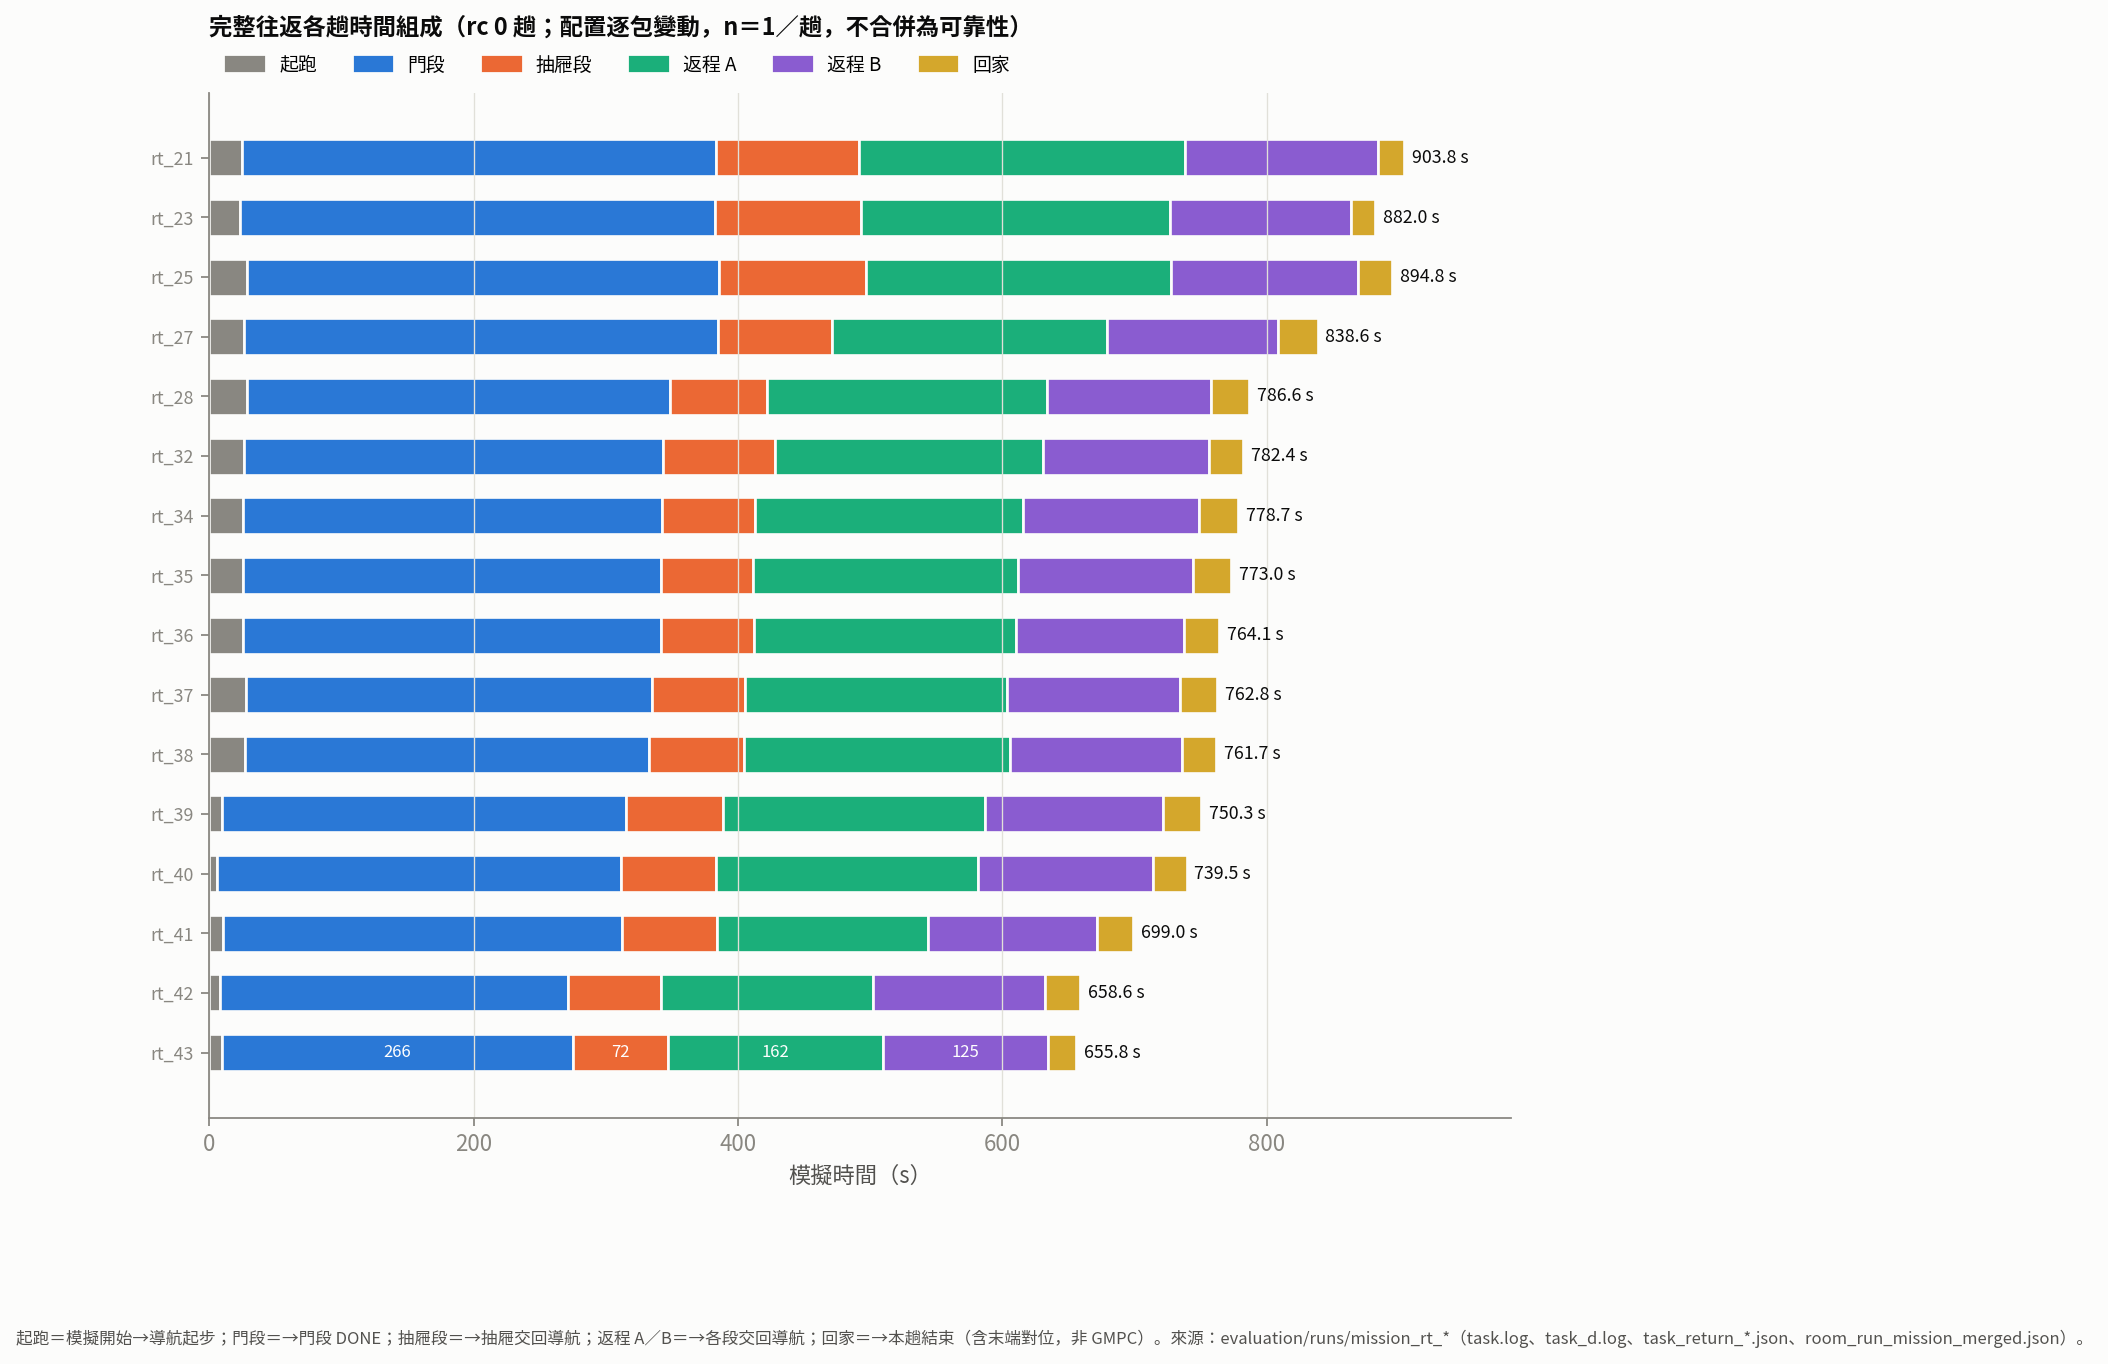
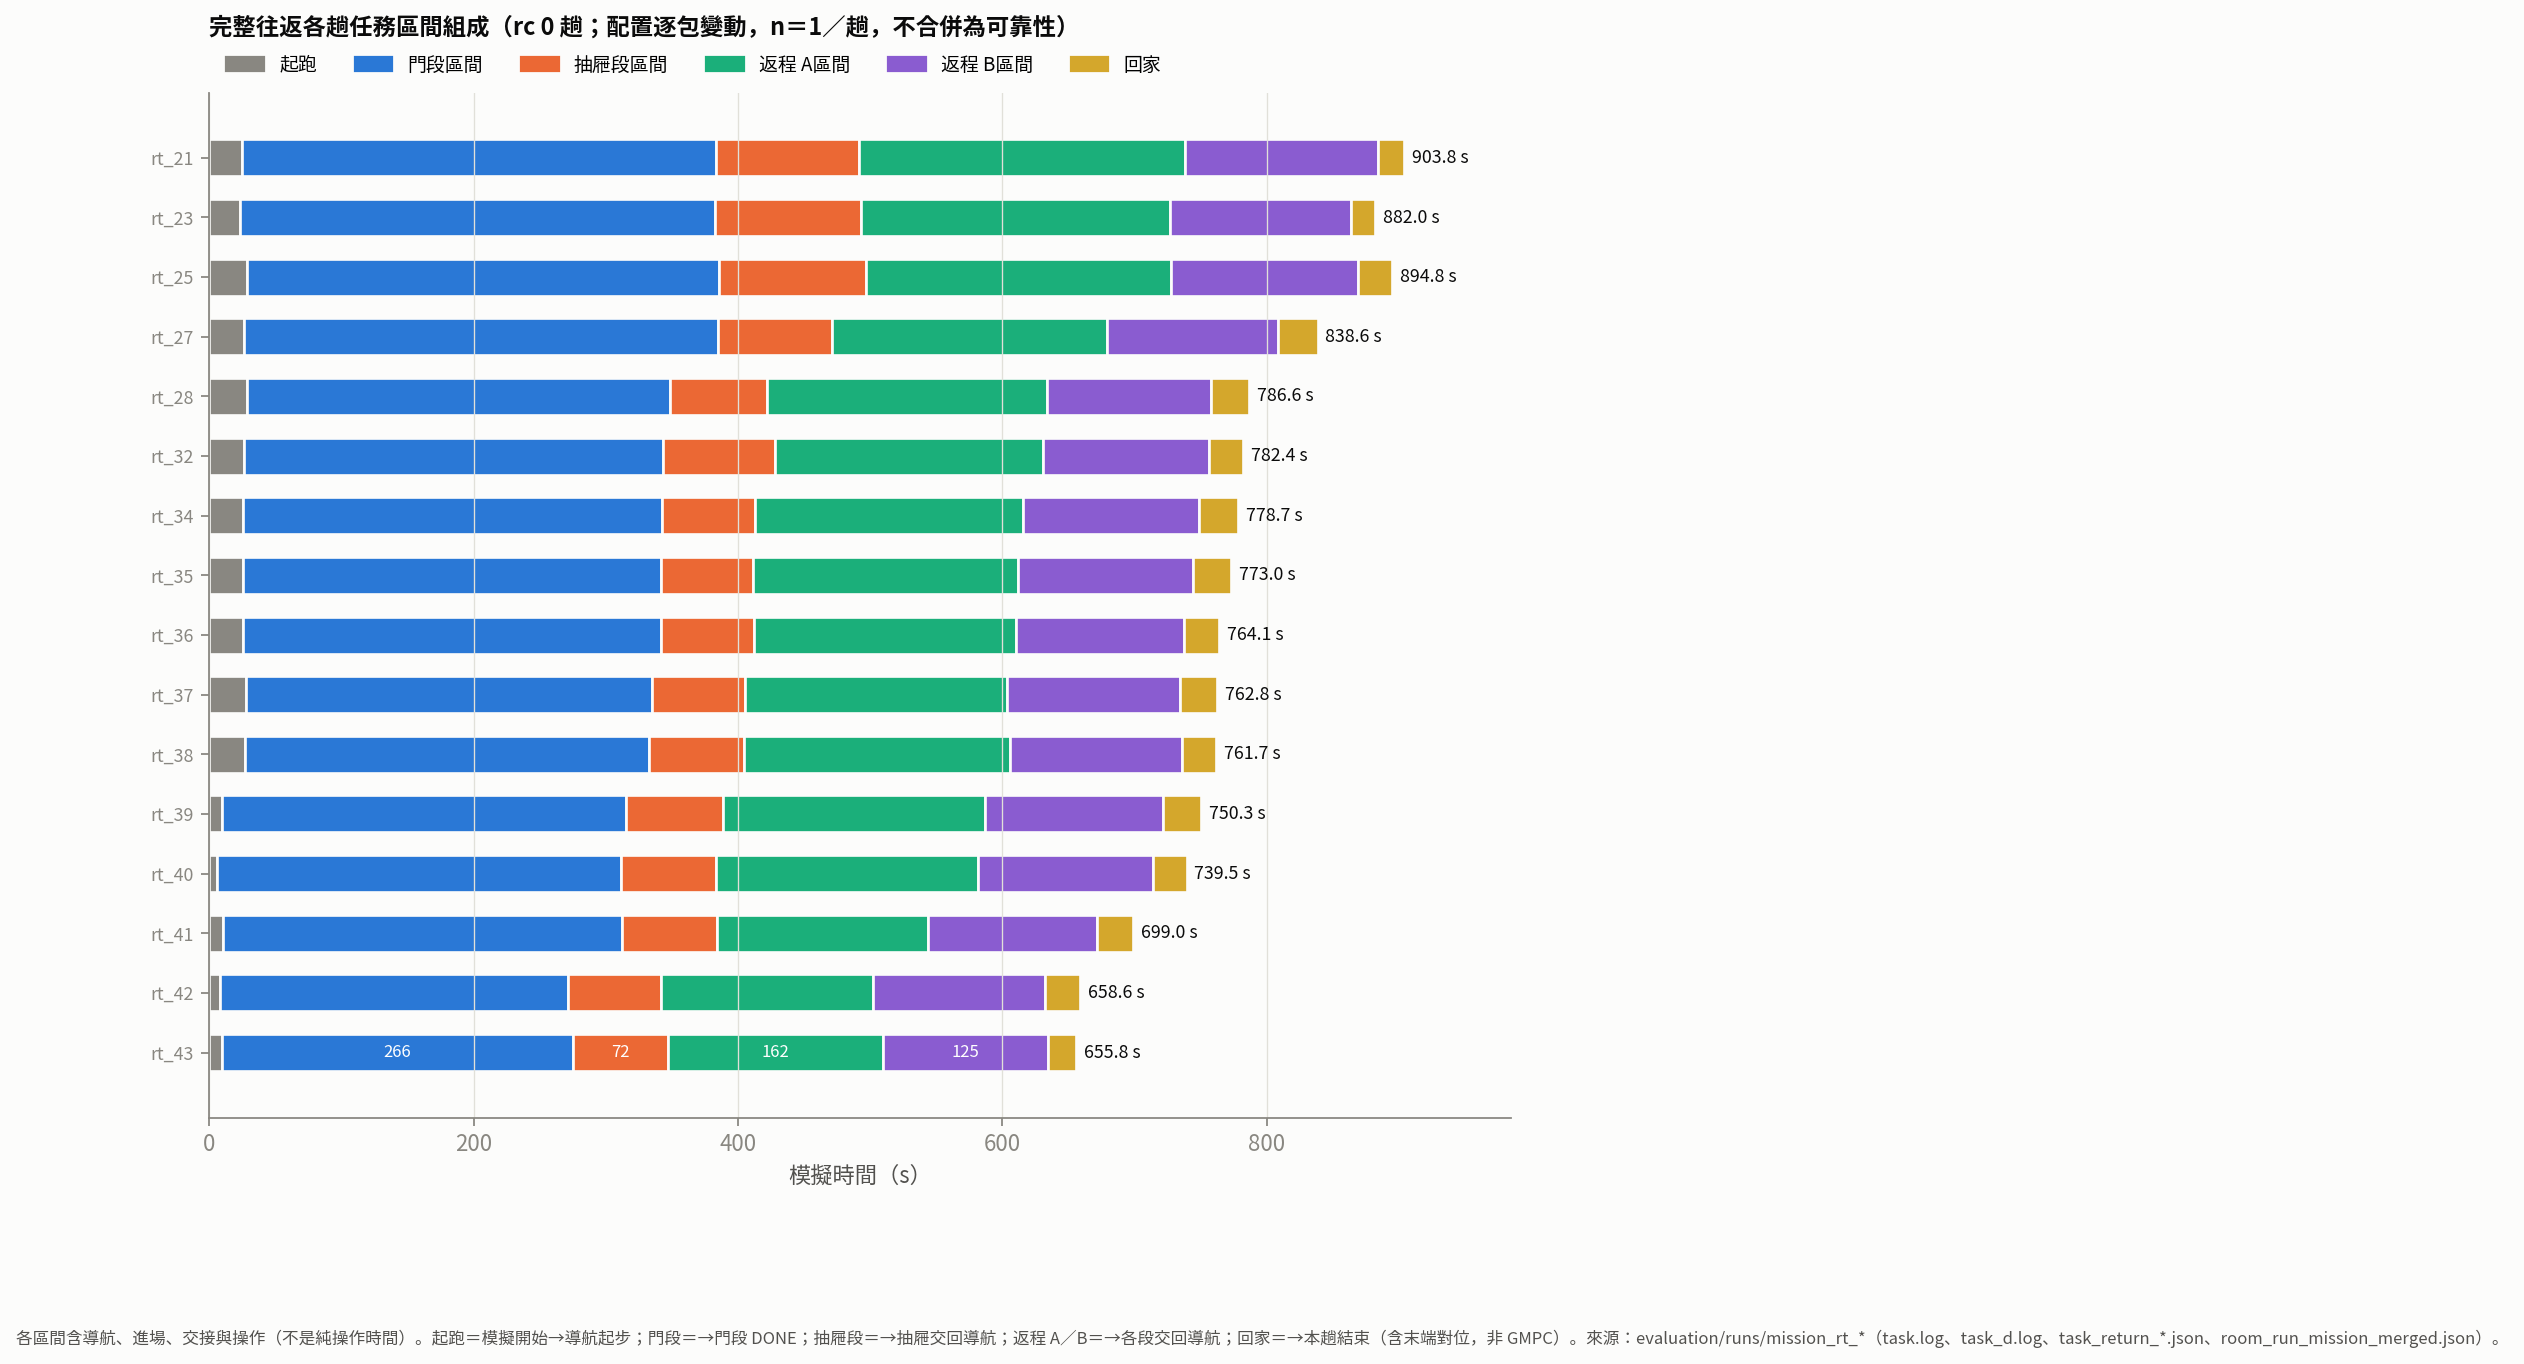
第七次素材第十三部分依 Codex 修正：副本可直接重現、抽屜中止描述、任務區間／局部改善口徑、40 s 改理想粗估、列 rt_43 版本位置

diff --git a/evaluation/build_mission_rt_summary.py b/evaluation/build_mission_rt_summary.py
@@ -6,7 +6,7 @@
 輸出：
   第七次進度報告素材/資料/mission_rt_summary.json   各趟結束碼、第一阻點（失敗趟）、成功趟的分段時刻與末態
   第七次進度報告素材/圖表/34_完整往返_各趟時間組成.png
-  第七次進度報告素材/圖表/35_完整往返_各包局部縮時.png
+  第七次進度報告素材/圖表/35_完整往返_各包局部縮時.png（局部改善／時長對照）
 """
 from __future__ import annotations
 
@@ -23,8 +23,20 @@ from matplotlib.patches import Patch                               # noqa: E402
 import numpy as np                                                 # noqa: E402
 
 HERE = os.path.dirname(os.path.abspath(__file__))
-WS = os.path.abspath(os.path.join(HERE, '..'))
-RUNS = os.path.join(HERE, 'runs')
+
+
+def _find_ws(d):
+    """往上找含 evaluation/runs 的工作區根（本檔在 evaluation/ 或素材「產生程式/」副本皆可直接執行）。"""
+    while True:
+        if os.path.isdir(os.path.join(d, 'evaluation', 'runs')):
+            return d
+        if os.path.dirname(d) == d:
+            raise SystemExit('找不到含 evaluation/runs 的工作區根')
+        d = os.path.dirname(d)
+
+
+WS = _find_ws(HERE)
+RUNS = os.path.join(WS, 'evaluation', 'runs')
 MAT = os.path.join(WS, '第七次進度報告素材')
 SURF, INK, INK2, MUTED, GRID = '#fcfcfb', '#0b0b0b', '#52514e', '#898781', '#e1e0d9'
 CAT = ['#898781', '#2a78d6', '#eb6834', '#1baf7a', '#8a5cd0', '#d4a72c']   # 起跑（中性灰）＋五段，固定順序
@@ -187,7 +199,7 @@ def run_summary(R):
 def fig34(S):
     ok = [s for s in S if s.get('rc') == 0 and s.get('segments')]
     fig, ax = plt.subplots(figsize=(10.5, 0.42 * len(ok) + 1.6))
-    names = [n for n, _, _ in ok[0]['segments']]
+    names = [n if n in ('起跑', '回家') else n + '區間' for n, _, _ in ok[0]['segments']]
     for i, s in enumerate(ok):
         y = len(ok) - 1 - i
         for j, (n, a, c) in enumerate(s['segments']):
@@ -204,8 +216,8 @@ def fig34(S):
     ax.grid(axis='y', visible=False)
     ax.legend(handles=[Patch(color=CAT[j], label=n) for j, n in enumerate(names)], ncol=6, frameon=False, loc='lower left',
               bbox_to_anchor=(0.0, 1.0), fontsize=8.5)
-    ax.set_title('完整往返各趟時間組成（rc 0 趟；配置逐包變動，n＝1／趟，不合併為可靠性）', loc='left', fontsize=10.5, pad=26)
-    fig.text(0.01, -0.06, '起跑＝模擬開始→導航起步；門段＝→門段 DONE；抽屜段＝→抽屜交回導航；返程 A／B＝→各段交回導航；回家＝→本趟結束（含末端對位，非 GMPC）。'
+    ax.set_title('完整往返各趟任務區間組成（rc 0 趟；配置逐包變動，n＝1／趟，不合併為可靠性）', loc='left', fontsize=10.5, pad=26)
+    fig.text(0.01, -0.06, '各區間含導航、進場、交接與操作（不是純操作時間）。起跑＝模擬開始→導航起步；門段＝→門段 DONE；抽屜段＝→抽屜交回導航；返程 A／B＝→各段交回導航；回家＝→本趟結束（含末端對位，非 GMPC）。'
              '來源：evaluation/runs/mission_rt_*（task.log、task_d.log、task_return_*.json、room_run_mission_merged.json）。', fontsize=7.5, color=INK2, wrap=True)
     return fig
 
@@ -244,7 +256,7 @@ def fig35(S):
     ax.scatter([], [], s=40, color='#898781', label='改動前一趟')
     ax.scatter([], [], s=40, color='#2a78d6', label='改動後一趟')
     ax.legend(frameon=False, loc='lower right', fontsize=8.5)
-    ax.set_title('各包局部縮時（相鄰兩趟實測，各 n＝1；局部量不等於整趟差）', loc='left', fontsize=10.5)
+    ax.set_title('各包局部改善／時長對照（相鄰兩趟實測，各 n＝1；局部量不等於整趟差；R1 列為反向時間，非提速）', loc='left', fontsize=10.5)
     return fig
 
 

diff --git a/第七次進度報告素材/產生程式/build_mission_rt_summary.py b/第七次進度報告素材/產生程式/build_mission_rt_summary.py
@@ -6,7 +6,7 @@
 輸出：
   第七次進度報告素材/資料/mission_rt_summary.json   各趟結束碼、第一阻點（失敗趟）、成功趟的分段時刻與末態
   第七次進度報告素材/圖表/34_完整往返_各趟時間組成.png
-  第七次進度報告素材/圖表/35_完整往返_各包局部縮時.png
+  第七次進度報告素材/圖表/35_完整往返_各包局部縮時.png（局部改善／時長對照）
 """
 from __future__ import annotations
 
@@ -23,8 +23,20 @@ from matplotlib.patches import Patch                               # noqa: E402
 import numpy as np                                                 # noqa: E402
 
 HERE = os.path.dirname(os.path.abspath(__file__))
-WS = os.path.abspath(os.path.join(HERE, '..'))
-RUNS = os.path.join(HERE, 'runs')
+
+
+def _find_ws(d):
+    """往上找含 evaluation/runs 的工作區根（本檔在 evaluation/ 或素材「產生程式/」副本皆可直接執行）。"""
+    while True:
+        if os.path.isdir(os.path.join(d, 'evaluation', 'runs')):
+            return d
+        if os.path.dirname(d) == d:
+            raise SystemExit('找不到含 evaluation/runs 的工作區根')
+        d = os.path.dirname(d)
+
+
+WS = _find_ws(HERE)
+RUNS = os.path.join(WS, 'evaluation', 'runs')
 MAT = os.path.join(WS, '第七次進度報告素材')
 SURF, INK, INK2, MUTED, GRID = '#fcfcfb', '#0b0b0b', '#52514e', '#898781', '#e1e0d9'
 CAT = ['#898781', '#2a78d6', '#eb6834', '#1baf7a', '#8a5cd0', '#d4a72c']   # 起跑（中性灰）＋五段，固定順序
@@ -187,7 +199,7 @@ def run_summary(R):
 def fig34(S):
     ok = [s for s in S if s.get('rc') == 0 and s.get('segments')]
     fig, ax = plt.subplots(figsize=(10.5, 0.42 * len(ok) + 1.6))
-    names = [n for n, _, _ in ok[0]['segments']]
+    names = [n if n in ('起跑', '回家') else n + '區間' for n, _, _ in ok[0]['segments']]
     for i, s in enumerate(ok):
         y = len(ok) - 1 - i
         for j, (n, a, c) in enumerate(s['segments']):
@@ -204,8 +216,8 @@ def fig34(S):
     ax.grid(axis='y', visible=False)
     ax.legend(handles=[Patch(color=CAT[j], label=n) for j, n in enumerate(names)], ncol=6, frameon=False, loc='lower left',
               bbox_to_anchor=(0.0, 1.0), fontsize=8.5)
-    ax.set_title('完整往返各趟時間組成（rc 0 趟；配置逐包變動，n＝1／趟，不合併為可靠性）', loc='left', fontsize=10.5, pad=26)
-    fig.text(0.01, -0.06, '起跑＝模擬開始→導航起步；門段＝→門段 DONE；抽屜段＝→抽屜交回導航；返程 A／B＝→各段交回導航；回家＝→本趟結束（含末端對位，非 GMPC）。'
+    ax.set_title('完整往返各趟任務區間組成（rc 0 趟；配置逐包變動，n＝1／趟，不合併為可靠性）', loc='left', fontsize=10.5, pad=26)
+    fig.text(0.01, -0.06, '各區間含導航、進場、交接與操作（不是純操作時間）。起跑＝模擬開始→導航起步；門段＝→門段 DONE；抽屜段＝→抽屜交回導航；返程 A／B＝→各段交回導航；回家＝→本趟結束（含末端對位，非 GMPC）。'
              '來源：evaluation/runs/mission_rt_*（task.log、task_d.log、task_return_*.json、room_run_mission_merged.json）。', fontsize=7.5, color=INK2, wrap=True)
     return fig
 
@@ -244,7 +256,7 @@ def fig35(S):
     ax.scatter([], [], s=40, color='#898781', label='改動前一趟')
     ax.scatter([], [], s=40, color='#2a78d6', label='改動後一趟')
     ax.legend(frameon=False, loc='lower right', fontsize=8.5)
-    ax.set_title('各包局部縮時（相鄰兩趟實測，各 n＝1；局部量不等於整趟差）', loc='left', fontsize=10.5)
+    ax.set_title('各包局部改善／時長對照（相鄰兩趟實測，各 n＝1；局部量不等於整趟差；R1 列為反向時間，非提速）', loc='left', fontsize=10.5)
     return fig
 
 

diff --git a/第七次進度報告素材/規格/低速介面一致化_設計草稿.md b/第七次進度報告素材/規格/低速介面一致化_設計草稿.md
@@ -23,9 +23,10 @@
 - 兩次導航→全身交棒的 GLIDE：起點→門 4.9 s、R2 6.0 s，其主體是交棒速度窗內的必要行程（已用紀錄核對，非就緒空等）。
 - 起點→門交棒後，全身端進場 approach_vref 由 0.027 遞減到 0.012 m/s 約 10 s。
 
-## 收益估計（上限、未跑）
+## 收益估計（理想情境粗估、未跑；不是嚴格上限）
 
-若上述非接觸低速段速度上限加倍並重產參考，時長約減半：(31＋29＋11＋10)／2 ≈ **40 s 上限估計**。
+理想情境：上述非接觸低速段速度上限加倍、重產參考後時長約減半：(31＋29＋11＋10)／2 ≈ **約 40 s 粗估**。
+速度加倍不代表轉向、加減速、交棒准入與監看相關時間都減半，實際收益可能明顯較小。
 未計入：加減速與接點、交棒准入是否仍一次成立、監看餘裕變小造成的 warn／stop、求解延遲。接觸段（S4、RG7、C4、OPEN）不在此估計內。
 
 ## 決策前須補的核對（不在本輪）
